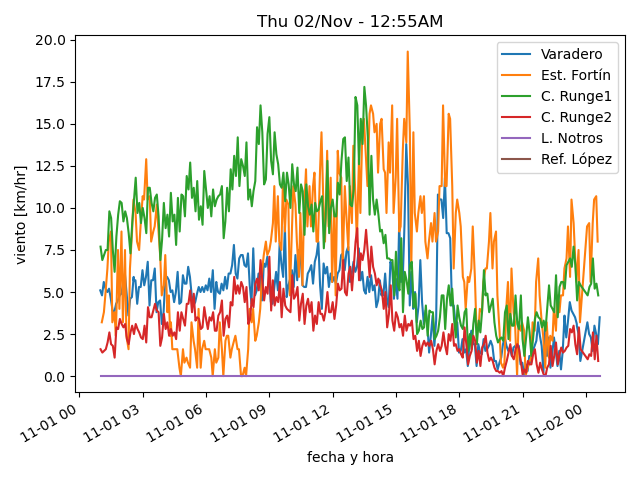
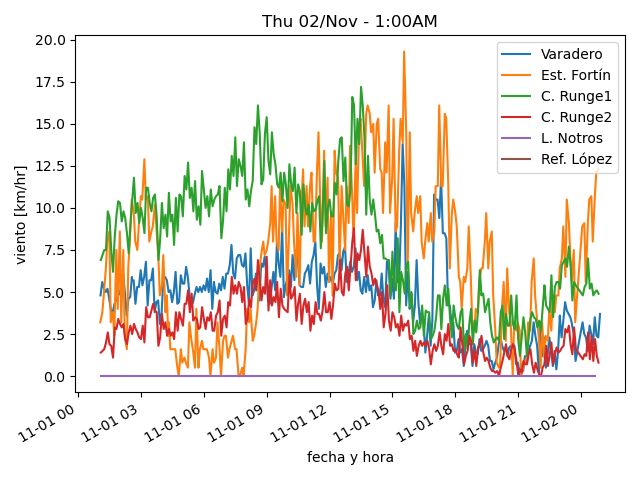
actualiza datos

diff --git a/estaciones/estacion3.html b/estaciones/estacion3.html
@@ -18,17 +18,17 @@
     </tr>
     <tr>
      <td class="stats_data">
-      12:34AM
+      12:49AM
      </td>
     </tr>
     <tr>
      <td class="stats_data">
-      3.6⁰C
+      3.7⁰C
      </td>
     </tr>
     <tr>
      <td class="stats_data">
-      1.9⁰C
+      2.0⁰C
      </td>
     </tr>
     <tr>
@@ -38,12 +38,12 @@
     </tr>
     <tr>
      <td class="stats_data">
-      1013.14hPa
+      1013.24hPa
      </td>
     </tr>
     <tr>
      <td class="stats_data">
-      3.4/4.8 km/hr SSE
+      3.5/4.9 km/hr SSE
      </td>
     </tr>
     <tr>

diff --git a/estaciones/estacion4.html b/estaciones/estacion4.html
@@ -18,7 +18,7 @@
     </tr>
     <tr>
      <td class="stats_data">
-      12:34AM
+      12:49AM
      </td>
     </tr>
     <tr>
@@ -33,17 +33,17 @@
     </tr>
     <tr>
      <td class="stats_data">
-      86.2%
+      86.1%
      </td>
     </tr>
     <tr>
      <td class="stats_data">
-      1022.11hPa
+      1022.01hPa
      </td>
     </tr>
     <tr>
      <td class="stats_data">
-      0.4/0.9 km/hr S
+      0.3/0.8 km/hr SSW
      </td>
     </tr>
     <tr>

diff --git a/estaciones/estacion2.html b/estaciones/estacion2.html
@@ -18,7 +18,7 @@
     </tr>
     <tr>
      <td class="stats_data">
-      12:33AM
+      12:49AM
      </td>
     </tr>
     <tr>
@@ -43,7 +43,7 @@
     </tr>
     <tr>
      <td class="stats_data">
-      3.9/8.0 km/hr NE
+      9.1/12.3 km/hr ENE
      </td>
     </tr>
     <tr>

diff --git a/estaciones/estacion1.html b/estaciones/estacion1.html
@@ -18,7 +18,7 @@
     </tr>
     <tr>
      <td class="stats_data">
-      12:39AM
+      12:54AM
      </td>
     </tr>
     <tr>
@@ -43,7 +43,7 @@
     </tr>
     <tr>
      <td class="stats_data">
-      2.3/3.5 km/hr S
+      2.4/3.7 km/hr SSW
      </td>
     </tr>
     <tr>
